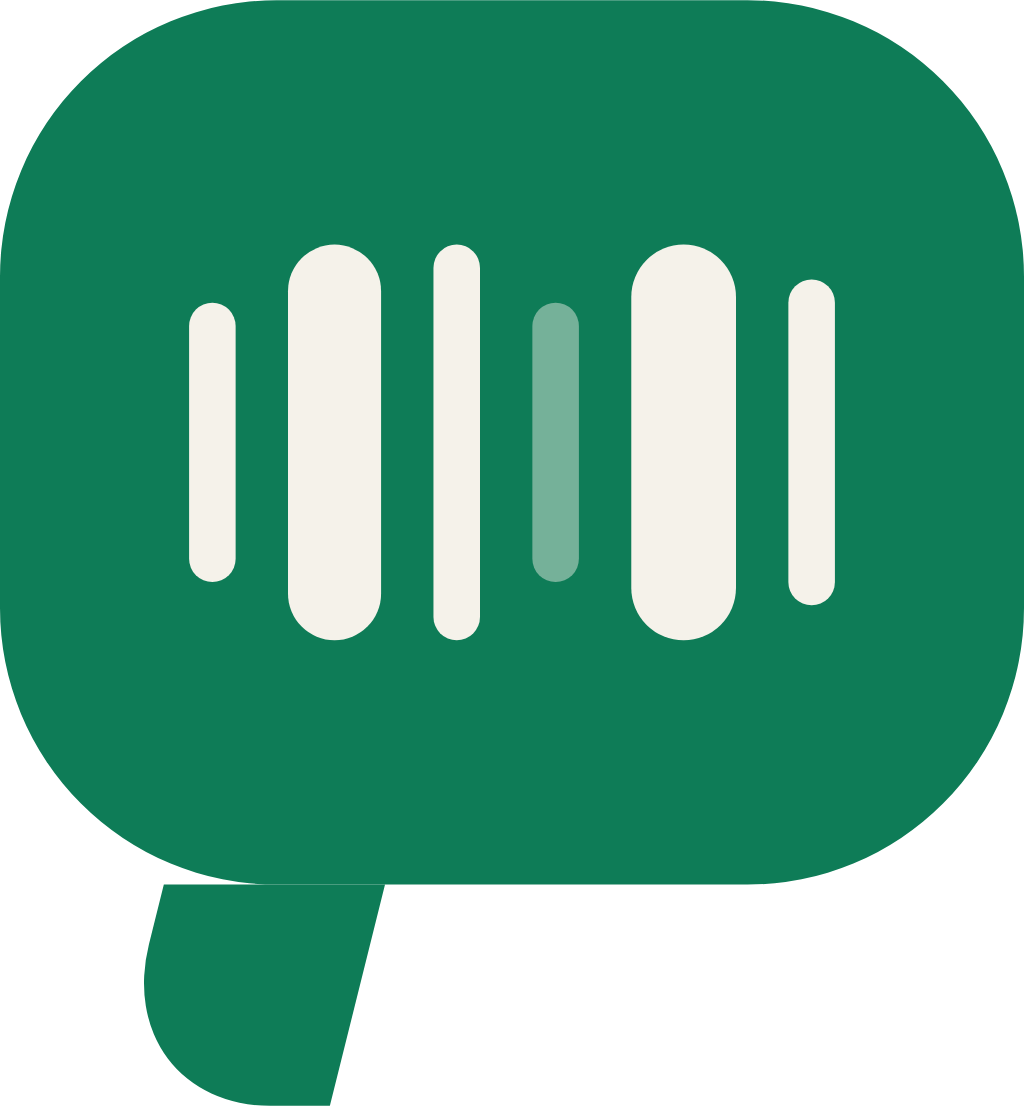
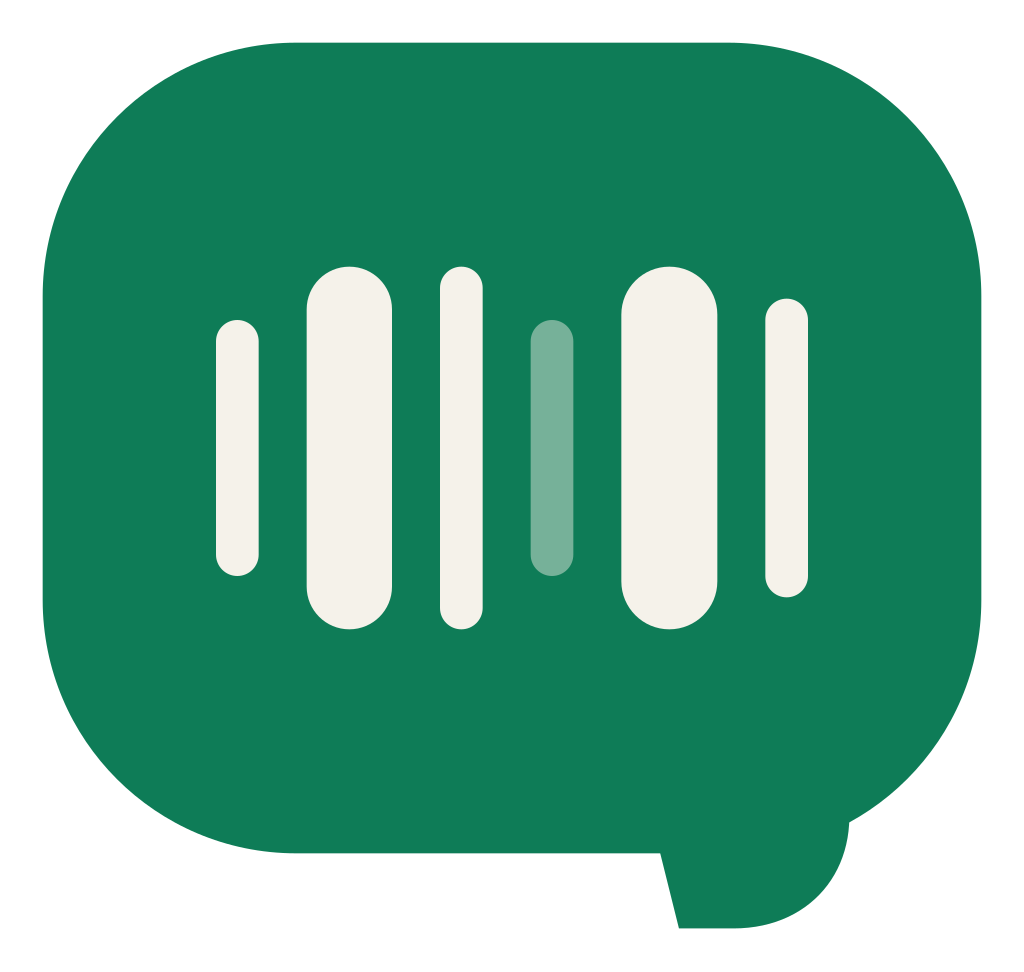
Flip the Say Scan mark's tail to bottom-right per updated design handoff
The tail now overlaps up into the bubble (point facing right, skewX(14deg))
instead of hanging flush bottom-left, matching the latest design handoff.
Updated all live SVGs, regenerated the PNG icon exports at their correct
simplification-ladder tiers, and updated the brand README.

diff --git a/README.md b/README.md
@@ -57,7 +57,7 @@ All assets are in [`public/brand/`](./public/brand):
 The mark is two unioned shapes, both solid fills, no stroke:
 
 - **Bubble** — rounded rectangle, aspect ratio 176:152, corner radius 27% of width on all four corners.
-- **Tail** — a square 21.6% of the bubble's width, positioned 16% in from the left with its top flush against the bubble's bottom edge, bottom-left corner radius 73% of its own size, sheared `skewX(-14deg)`.
+- **Tail** — a square 21.6% of the bubble's width, positioned 16% in from the right, overlapping up into the bubble so only 8% of the bubble's width hangs below its bottom edge, bottom-right corner radius 73% of its own size, sheared `skewX(14deg)` so the point faces right.
 
 Inside the bubble: six vertical bars, centered as a set, fully rounded ends, one of them (the fourth) at 45% opacity so the rhythm doesn't read as a perfectly even grid — that's what keeps it looking like a barcode instead of an equalizer.
 
@@ -91,7 +91,7 @@ Lowercase `coop`, **Archivo Expanded**, weight 900, `letter-spacing: -0.05em`. T
 ### Rules
 
 - Clear space on all sides = one bar-width at that size.
-- The tail always sits bottom-left. Never mirror, rotate, or detach it.
+- The tail always sits bottom-right, point facing right. Never mirror, rotate, or detach it.
 - Never change the bar rhythm or make the bars evenly spaced.
 - Never outline the mark — it's always a solid fill.
 - Never place the wordmark inside the bubble.
